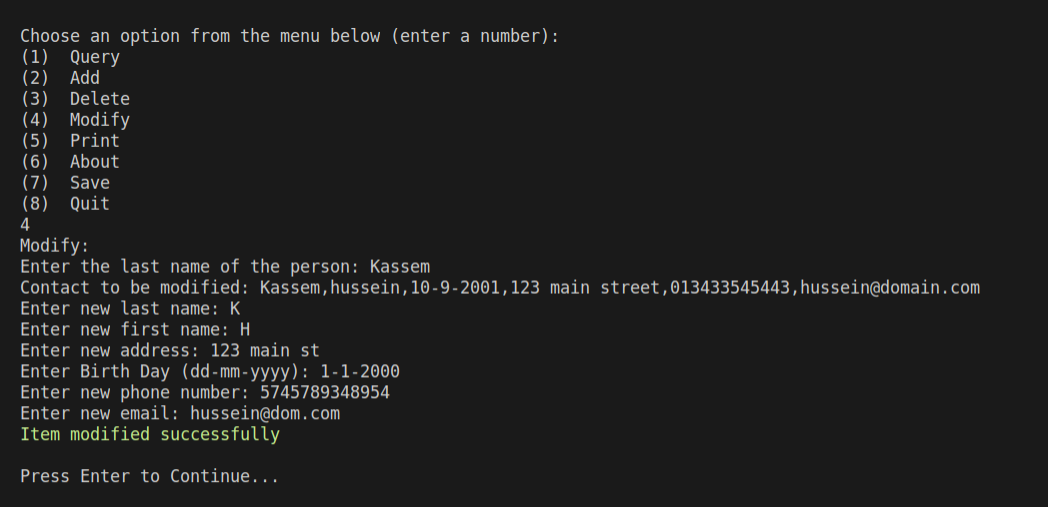
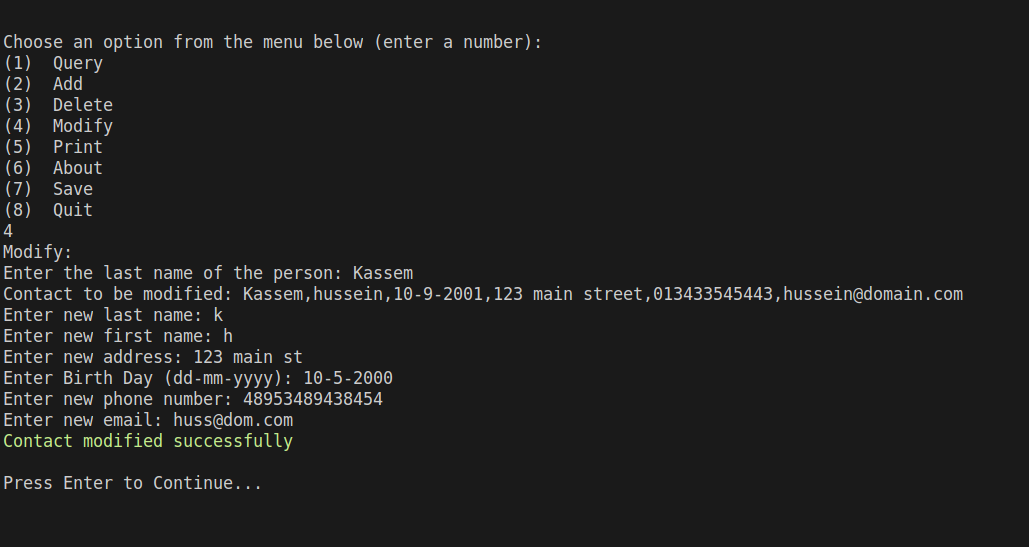
Added some screenshots

Changed region(s): [[0.0, 0.0592, 0.9329, 0.9763]]

diff --git a/phonebook.c b/phonebook.c
@@ -255,7 +255,7 @@ void modify()
         modifyContact(items[num - 1]);
     }
     else
-        error("Error! Item not found.\n");
+        error("Error! Contact not found.\n");
 }
 
 void printMenu()

diff --git a/README.md b/README.md
@@ -65,8 +65,10 @@
         - [Sample Run:](#sample-run-2)
       - [success](#success)
         - [Code:](#code-13)
+        - [Sample Runs:](#sample-runs-5)
       - [pause](#pause)
         - [Code:](#code-14)
+        - [Sample Runs:](#sample-runs-6)
       - [getCurrentYear](#getcurrentyear)
         - [Code:](#code-15)
       - [printContacts](#printcontacts)
@@ -302,7 +304,7 @@ void query()
 ![Query sample run](img/query2.png "Query sample run")
 
 ### Add
-This Function adds a contact to the phone book. It asks the user for the last name, first name, date of birth formatted as (dd-mm-yyyy), address, phone number, and email address of that new contact. When the contact is added successfully it asks the user if he wants to add another one.If yes, the fuction will call itself.
+This Function adds a contact to the phone book. It asks the user for the last name, first name, date of birth formatted as (dd-mm-yyyy), address, phone number, and email address of that new contact. When the contact is added successfully it asks the user if he wants to add another one.If yes, the function will call itself.
 It validates the user input. It keeps asking the user if he enters invalid input. It uses for that three helping functions  [`validDate()`](#validdate), [`validEmail()`](#validemail), and [`validPhone()`](#validphone). 
 
 > Note: You can click on any of the helping functions for more information.
@@ -417,7 +419,7 @@ In case of the contact not found:
 ![Delete](img/delete2.png)
 
 ### Modify
-This function asks the user for the last name of the contact he/she wants to modify and searches for it. It achieves that by looping through all contacts and saving the indices of matching contacts in an array of type integer. If the number of items in the array is one, it calls [`modifyContact()`](#modifyContact) and lets the user modify the contact directly plus prints that contact's new information. But if the number of items in the array is more than one, a menu having all the contacts that matched last name will be displayed and the user can choose the contact to be modified. Then the user will be asked to enter the number corressponding to the contact he/she wants to modify from that menu. If a contact is successfully specidied, the [`modifyContact()`](#modifyContact) function will be called. [`modifyContact()`](#modifyContact) is very similar to add function but with slight change so it can make it easier to modify contacts and display success messages. If no contact is specified, **item not found** message if displayed and the function ends and no contact is modified.
+This function asks the user for the last name of the contact he/she wants to modify and searches for it. It achieves that by looping through all contacts and saving the indices of matching contacts in an array of type integer. If the number of items in the array is one, it calls [`modifyContact()`](#modifyContact) and lets the user modify the contact directly plus prints that contact's new information. But if the number of items in the array is more than one, a menu having all the contacts that matched last name will be displayed and the user can choose the contact to be modified. Then the user will be asked to enter the number corressponding to the contact he/she wants to modify from that menu. If a contact is successfully specified, the [`modifyContact()`](#modifyContact) function will be called. [`modifyContact()`](#modifyContact) is very similar to add function but with slight change so it can make it easier to modify contacts and display success messages. If no contact is specified, **item not found** message if displayed and the function ends and no contact is modified.
 
 #### Code:
 ```C
@@ -471,7 +473,7 @@ void modify()
         modifyContact(items[num - 1]);
     }
     else
-        error("Error! Item not found.\n");
+        error("Error! Contact not found.\n");
 }
 ```
 #### Sample Runs:
@@ -728,7 +730,7 @@ void error(char message[])
 }
 ```
 ##### Sample Run:
-
+![Error](img/errorImg.png)
 
 #### success
 It prints green colored text which is used in printing success messages.
@@ -740,6 +742,8 @@ void success(char message[])
     printf("\033[0;32m%s\033[0m", message);
 }
 ```
+##### Sample Runs:
+![succes message](img/success.png)
 
 #### pause
 This function asks the user for input. It is used after showing outputs to pause the program so the user can have time to read the output. If not used, the user won't be able to read the changes he/she made since the `menu()` function will clear the screen immediately.
@@ -752,9 +756,11 @@ void pause()
     getchar();
 }
 ```
+##### Sample Runs:
+![pause](img/pause.png)
 
 #### getCurrentYear
-This function returns the current year which helps in validating date input.
+This function returns the current year which helps in validating date input. It works by including time.h header file and making variable of type `time_t` 
 ##### Code:
 ```C
 int getCurrentYear()
